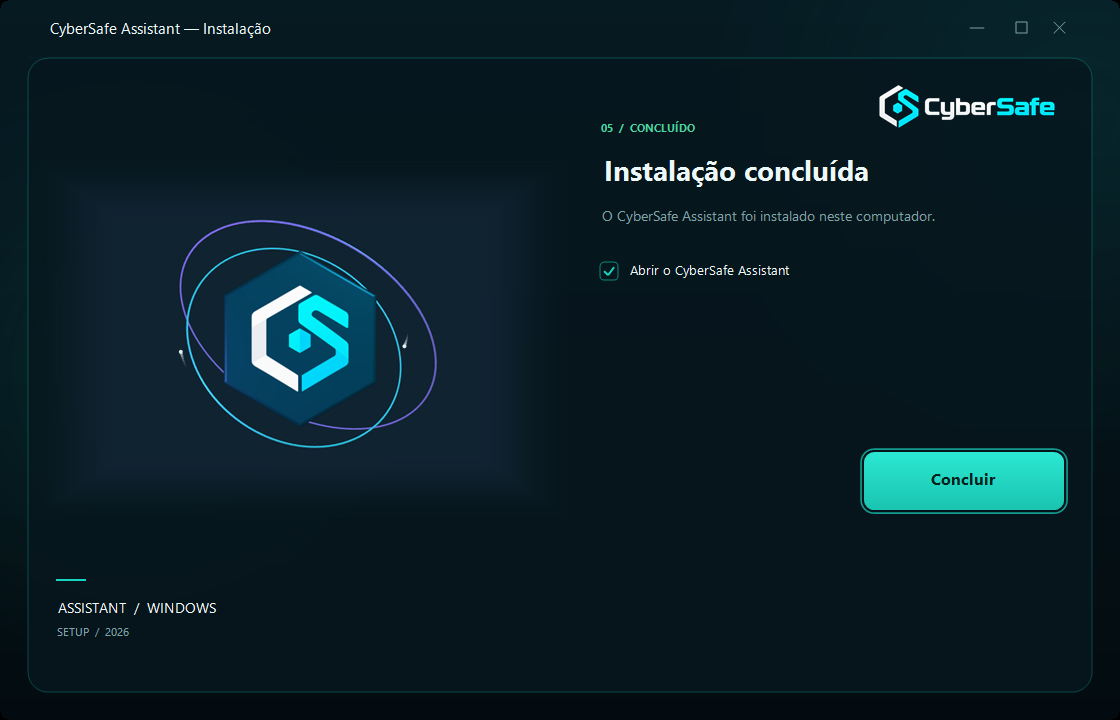
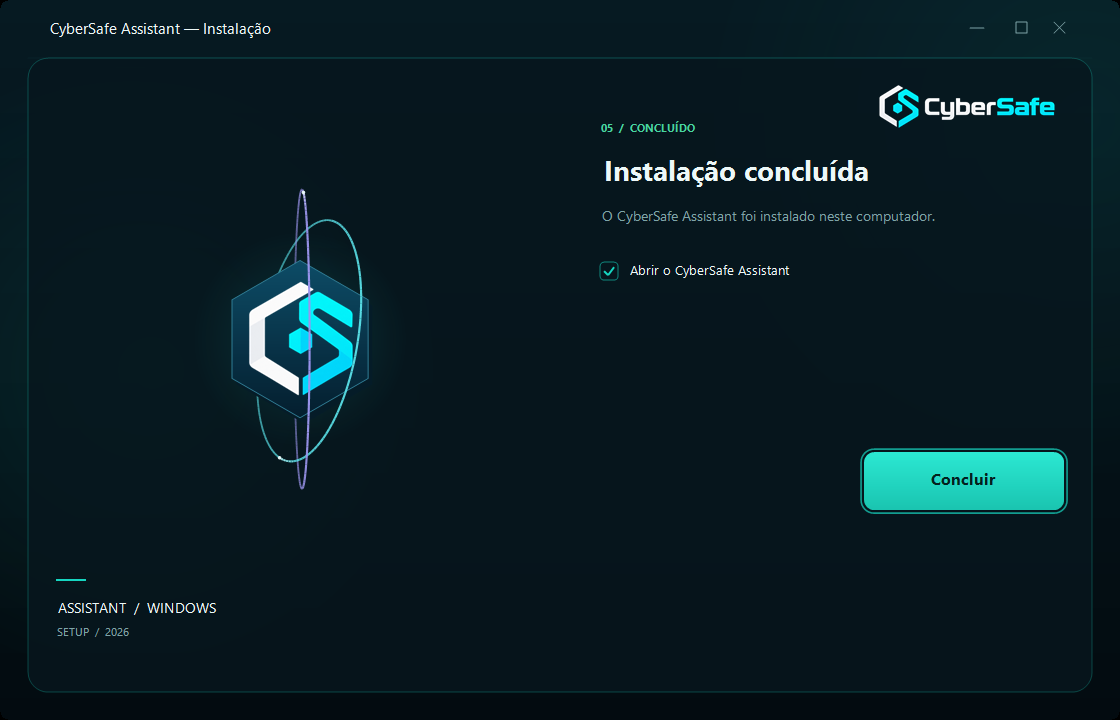
feat(setup): rotate the orbital rings in real 3D
Os aneis eram pixels achatados no PNG, por isso nenhuma rotacao era possivel sem
cortar a logo. A geometria vem agora do proprio CoreScene: torus 1.45 e 1.75,
camera z=7 fov 35 e a pose orbitalRingPose(phase, i, 'depth'). Cada anel e
projetado ponto a ponto, dividido por profundidade e desenhado antes ou depois
do hexagono (prisma + symbol.png), o que da oclusao correta e mudanca real de
orientacao entre frames.

🤖 Generated with Codebuff

Changed region(s): [[0.1562, 0.275, 0.375, 0.6722], [0.3438, 0.55, 0.375, 0.5806]]

diff --git a/scripts/setup-ui/main.cpp b/scripts/setup-ui/main.cpp
@@ -23,7 +23,7 @@ static const Color kText(255, 237, 248, 248), kMuted(255, 126, 164, 168);
 struct Btn { RECT r; int id; const wchar_t* label; int icon; bool primary; bool enabled; };
 static std::vector<Btn> g_buttons;
 static int g_page = 0, g_hover = -1, g_focus = 0, g_dpi = 96;
-static Bitmap *g_scene = nullptr, *g_sceneSoft = nullptr, *g_lockup = nullptr;
+static Bitmap *g_scene = nullptr, *g_sceneSoft = nullptr, *g_lockup = nullptr, *g_symbol = nullptr;
 static void BuildSceneSoft(int w);
 static void BuildCore();
 static void DrawContain(Graphics& g, Bitmap* b, RectF box);
@@ -63,6 +63,7 @@ static bool LoadPng(const wchar_t* rel, Bitmap** out){
 static void LoadImages(){
   LoadPng(L"assets/branding/scene/orbital-b-scene.png", &g_scene);
   LoadPng(L"assets/branding/source/07_CyberSafe_horizontal_lockup.png", &g_lockup);
+  LoadPng(L"assets/branding/source/symbol.png", &g_symbol);
   BuildSceneSoft(960);
 }
 
@@ -129,55 +130,97 @@ static void BuildCore(){
   g_core = b;
 }
 
+struct V3 { float x, y, z; };
+static V3 RotX(V3 p, float a){ float c = cosf(a), s = sinf(a); return { p.x, p.y * c - p.z * s, p.y * s + p.z * c }; }
+static V3 RotY(V3 p, float a){ float c = cosf(a), s = sinf(a); return { p.x * c + p.z * s, p.y, -p.x * s + p.z * c }; }
+static V3 RotZ(V3 p, float a){ float c = cosf(a), s = sinf(a); return { p.x * c - p.y * s, p.x * s + p.y * c, p.z }; }
+
+// Same geometry as CoreScene: torus radii 1.45 / 1.75, camera z=7 fov 35,
+// ring pose from orbitalRingPose(phase, i, 'depth'), logo plane at z=0.265.
 static void DrawOrbitals(Graphics& g, RectF box){
   const float sc = fminf(box.Width / 960.0f, box.Height / 640.0f);
   const float offX = box.X + (box.Width - 960.0f * sc) / 2.0f;
   const float offY = box.Y + (box.Height - 640.0f * sc) / 2.0f;
   PointF c(offX + 480.0f * sc, offY + 320.0f * sc);
-  float pulse = 0.5f + 0.5f * sinf((float)g_phase * 0.7f);
+  const float f = 1014.9f * sc;
+  const float t = (float)g_phase;
+  const float twoPi = 6.2831853f;
+  const float gy = sinf(t * 0.30f) * 0.06f;
+  const float gx = cosf(t * 0.25f) * 0.04f;
+  const float zLogo = 0.265f;
 
-  { GraphicsPath hp; hp.AddEllipse(c.X - 196 * sc, c.Y - 196 * sc, 392 * sc, 392 * sc);
+  { GraphicsPath hp; hp.AddEllipse(c.X - 188 * sc, c.Y - 188 * sc, 376 * sc, 376 * sc);
     PathGradientBrush hb(&hp);
-    hb.SetCenterColor(Color((BYTE)(20 + 18 * pulse), 26, 205, 195));
+    hb.SetCenterColor(Color(40, 28, 205, 195));
     Color hs(0, 20, 180, 190); int n = 1; hb.SetSurroundColors(&hs, &n);
     g.FillPath(&hb, &hp); }
 
-  if(g_sceneSoft) DrawContain(g, g_sceneSoft, box);
+  struct Ring { float R, rx, ry, rz; BYTE r, gr, b; double speed; };
+  Ring rings[2];
+  rings[0] = { 1.45f, -0.55f + sinf(t * 0.24f) * 0.12f, fmodf(0.35f + t * 0.22f, twoPi), fmodf(t * 0.08f, twoPi), 92, 230, 237, 0.10 };
+  rings[1] = { 1.75f, 0.65f + cosf(t * 0.19f) * 0.16f, fmodf(-0.40f - t * 0.16f, twoPi), fmodf(-t * 0.11f, twoPi), 156, 149, 238, -0.08 };
 
-  GraphicsPath clip;
-  clip.AddEllipse(c.X - 240 * sc, c.Y - 205 * sc, 480 * sc, 410 * sc);
-  const float hx[6] = { 480, 615, 615, 480, 345, 345 };
-  const float hy[6] = { 168, 250, 395, 472, 395, 250 };
-  PointF hex[6];
-  for(int i = 0; i < 6; i++) hex[i] = PointF(offX + hx[i] * sc, offY + hy[i] * sc);
-  GraphicsPath hpath; hpath.AddPolygon(hex, 6);
-  clip.AddPath(&hpath, FALSE);
-  clip.SetFillMode(FillModeAlternate);
-  g.SetClip(&clip);
-
-  struct Rg { float rx, ry, tilt; BYTE r, gr, b; double speed, off; };
-  Rg rings[2] = {
-    { 220.0f, 187.0f, 22.0f, 150, 140, 255, 0.055, 0.0 },
-    { 197.0f, 142.0f, -18.0f, 45, 226, 214, 0.080, 1.0 }
+  auto project = [&](const Ring& R, float a, float& sx, float& sy, float& z){
+    V3 p = { R.R * cosf(a), R.R * sinf(a), 0.0f };
+    p = RotZ(p, R.rz); p = RotY(p, R.ry); p = RotX(p, R.rx);
+    p = RotY(p, gy); p = RotX(p, gx);
+    float den = 7.0f - p.z; if(den < 0.6f) den = 0.6f;
+    sx = c.X + p.x * f / den;
+    sy = c.Y - p.y * f / den;
+    z = p.z;
   };
-  for(int i = 0; i < 2; i++){
-    Rg& R = rings[i];
-    float tilt = R.tilt + 2.5f * sinf((float)g_phase * 0.30f + (float)i * 2.1f);
-    float ct = cosf(tilt * 3.14159265f / 180.0f), st = sinf(tilt * 3.14159265f / 180.0f);
-    double ang = g_phase * R.speed * 6.2831853 + R.off * 3.14159;
-    for(int k = 0; k < 8; k++){
-      double a2 = ang - k * 0.020;
-      float ex = R.rx * sc * (float)cos(a2), ey = R.ry * sc * (float)sin(a2);
-      float px = c.X + ex * ct - ey * st;
-      float py = c.Y + ex * st + ey * ct;
-      float rad = (k == 0 ? 3.6f : 3.0f - k * 0.28f) * sc;
-      if(rad <= 0.2f) continue;
-      int alpha = k == 0 ? 240 : (int)(150.0f * (1.0f - k / 9.0f));
-      SolidBrush sb(Color((BYTE)alpha, 235, 255, 255));
-      g.FillEllipse(&sb, px - rad, py - rad, rad * 2, rad * 2);
+
+  const int N = 120;
+  const float w0 = 0.026f * f / 7.0f;
+
+  for(int pass = 0; pass < 2; pass++){
+    if(pass == 1){
+      const float R = 0.95f, k = f / 7.0f;
+      PointF hex[6], back[6];
+      for(int i = 0; i < 6; i++){
+        float a = -1.5707963f + i * 1.0471976f;
+        hex[i] = PointF(c.X + cosf(a) * R * k, c.Y + sinf(a) * R * k);
+        back[i] = PointF(hex[i].X + 0.05f * k, hex[i].Y + 0.07f * k);
+      }
+      SolidBrush eb(Color(255, 5, 28, 40));
+      g.FillPolygon(&eb, back, 6);
+      LinearGradientBrush fb(PointF(c.X, c.Y - R * k), PointF(c.X, c.Y + R * k),
+                             Color(255, 13, 76, 102), Color(255, 4, 30, 46));
+      g.FillPolygon(&fb, hex, 6);
+      Pen edge(Color(255, 48, 126, 150), 1.5f * sc);
+      g.DrawPolygon(&edge, hex, 6);
+      if(g_symbol){
+        float sw = 1.8f * f / (7.0f - zLogo);
+        g.DrawImage(g_symbol, RectF(c.X - sw / 2, c.Y - sw / 2, sw, sw));
+      }
+    }
+    for(int i = 0; i < 2; i++){
+      Ring& R = rings[i];
+      for(int k = 0; k < N; k++){
+        float a0 = twoPi * k / N, a1 = twoPi * (k + 1) / N;
+        float x0, y0, z0, x1, y1, z1;
+        project(R, a0, x0, y0, z0);
+        project(R, a1, x1, y1, z1);
+        float zm = (z0 + z1) * 0.5f;
+        bool front = zm > zLogo;
+        if((pass == 1) != front) continue;
+        int alpha = (int)(120 + 135 * ((zm + 1.8f) / 3.6f));
+        if(alpha < 70) alpha = 70; if(alpha > 255) alpha = 255;
+        Pen pen(Color((BYTE)alpha, R.r, R.gr, R.b), front ? w0 : w0 * 0.85f);
+        g.DrawLine(&pen, x0, y0, x1, y1);
+      }
+      for(int sp = 0; sp < 6; sp++){
+        float a = (float)(t * R.speed * twoPi) - sp * 0.055f;
+        float sx, sy, z;
+        project(R, a, sx, sy, z);
+        if((pass == 1) != (z > zLogo)) continue;
+        float rad = (sp == 0 ? 3.2f : 2.5f - sp * 0.3f) * sc;
+        if(rad <= 0.2f) continue;
+        SolidBrush sb(Color((BYTE)(sp == 0 ? 240 : 135), 240, 255, 255));
+        g.FillEllipse(&sb, sx - rad, sy - rad, rad * 2, rad * 2);
+      }
     }
   }
-  g.ResetClip();
 }
 
 static GraphicsPath* RoundRectPath(RectF r, float rad){
